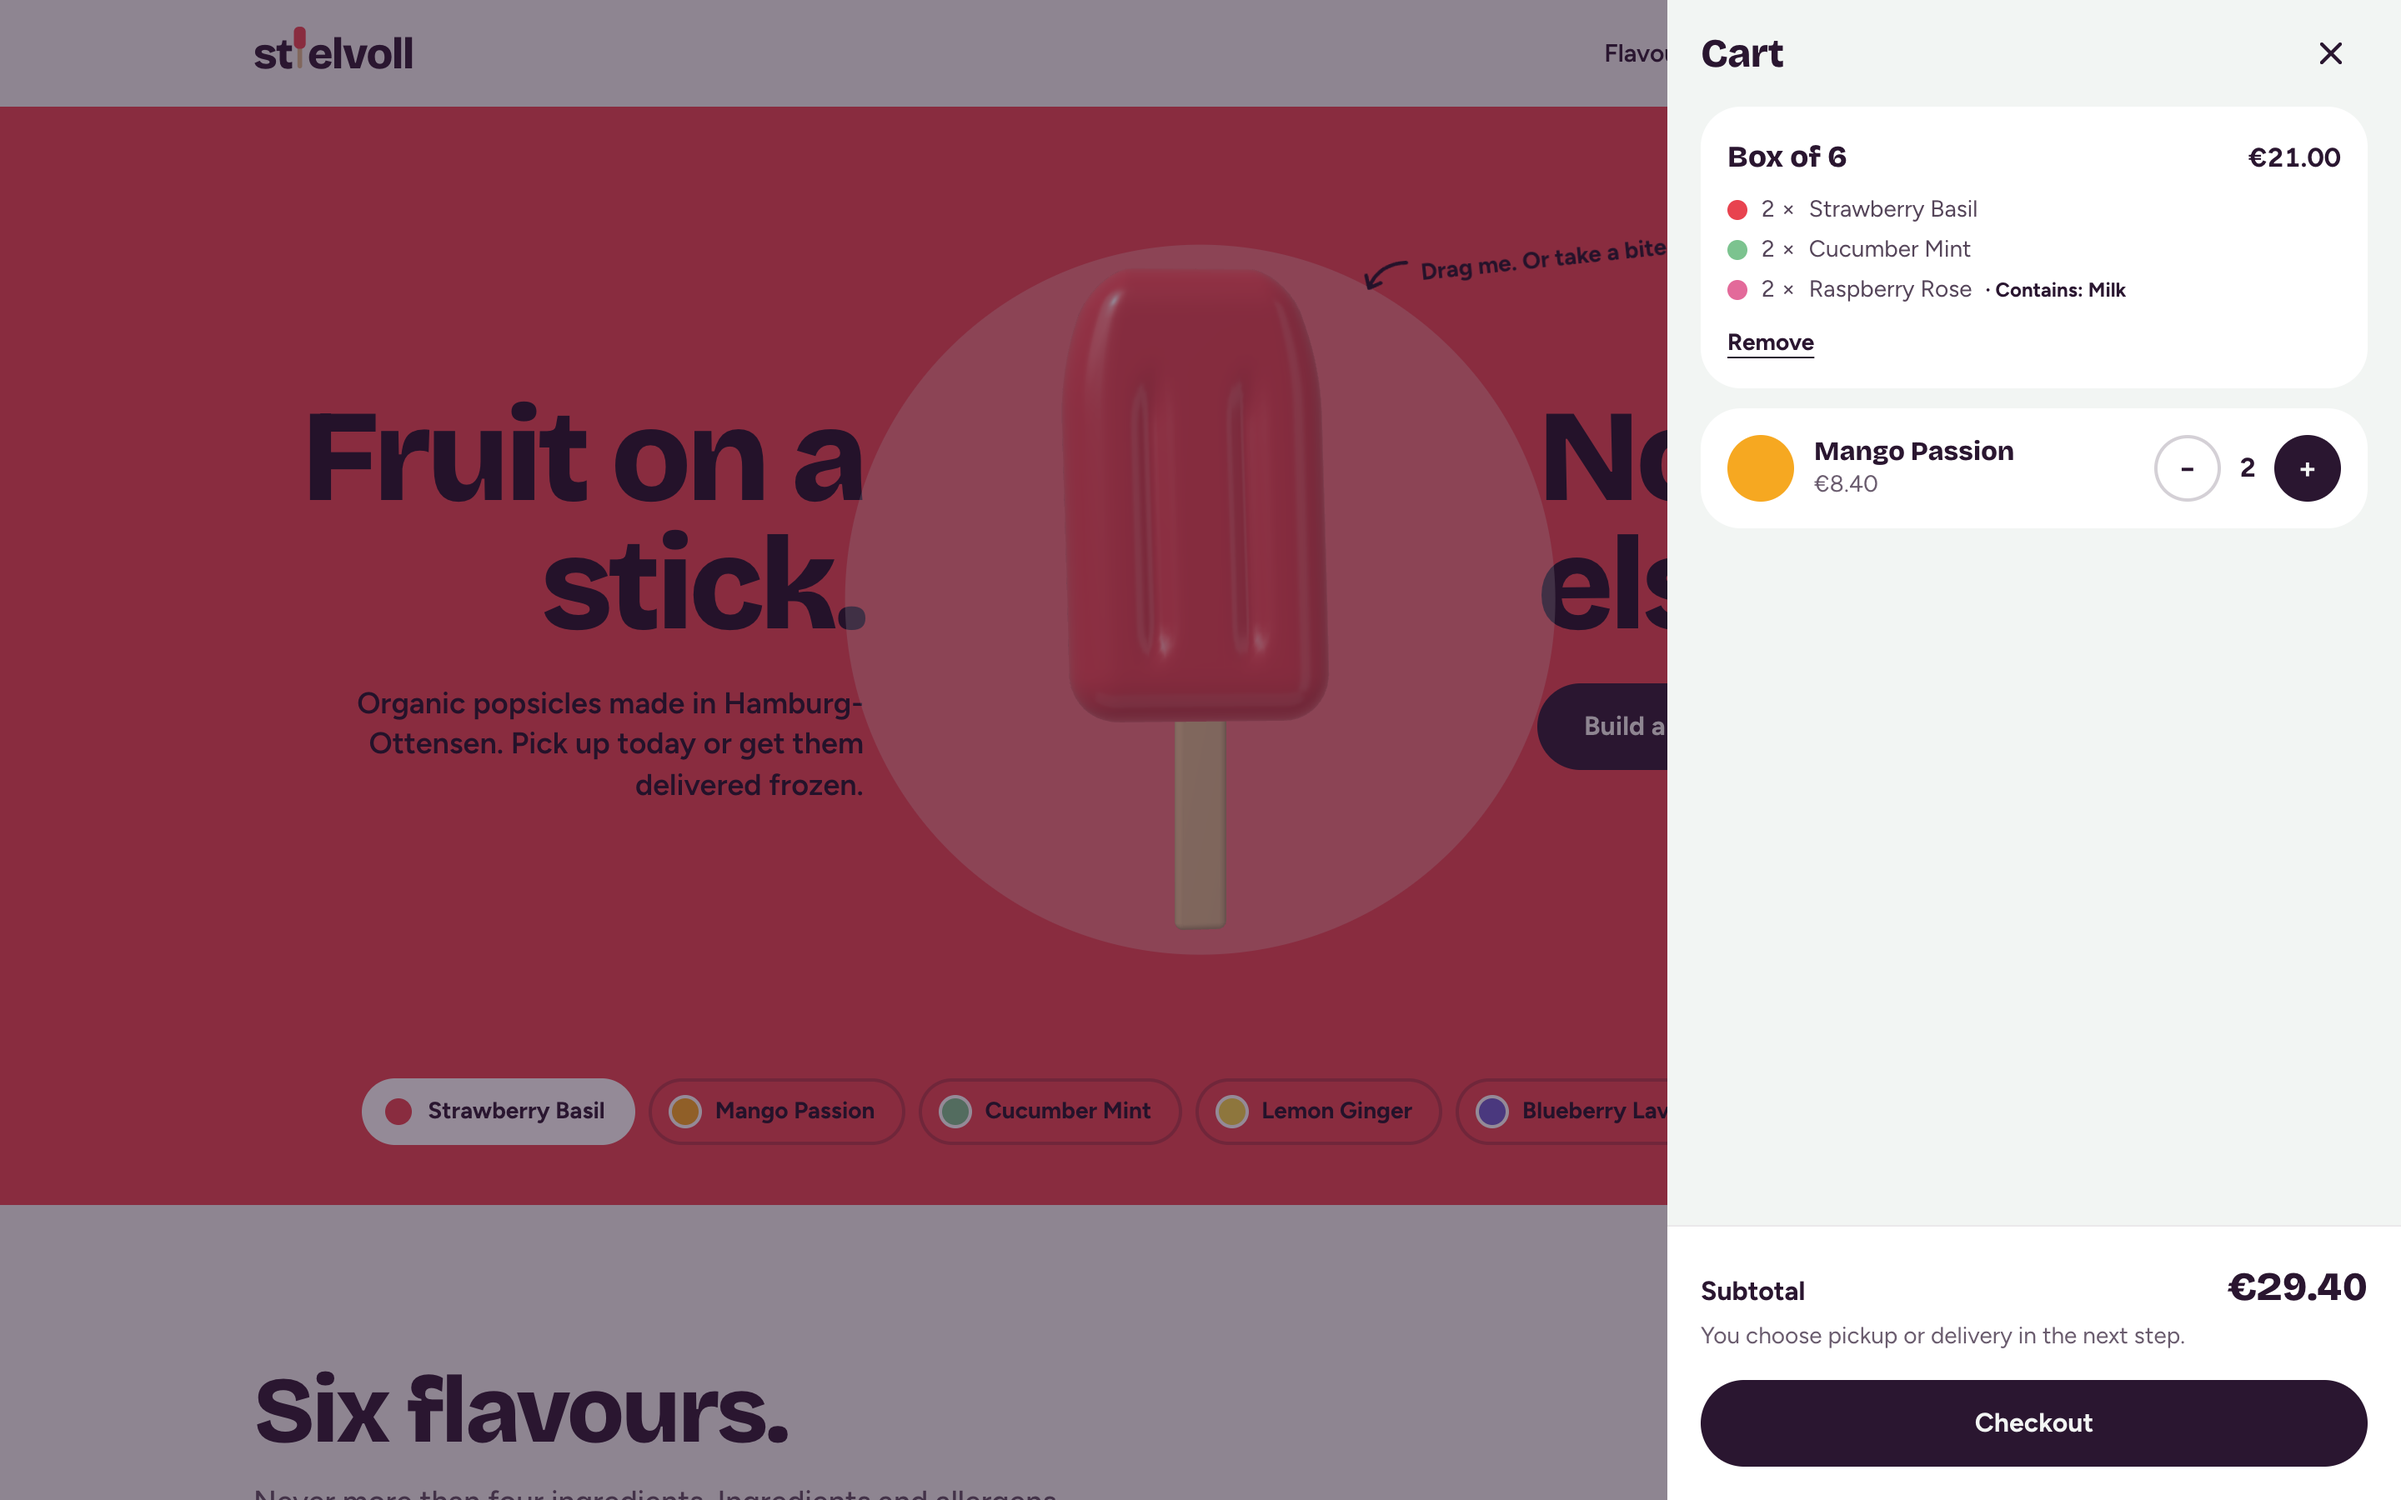
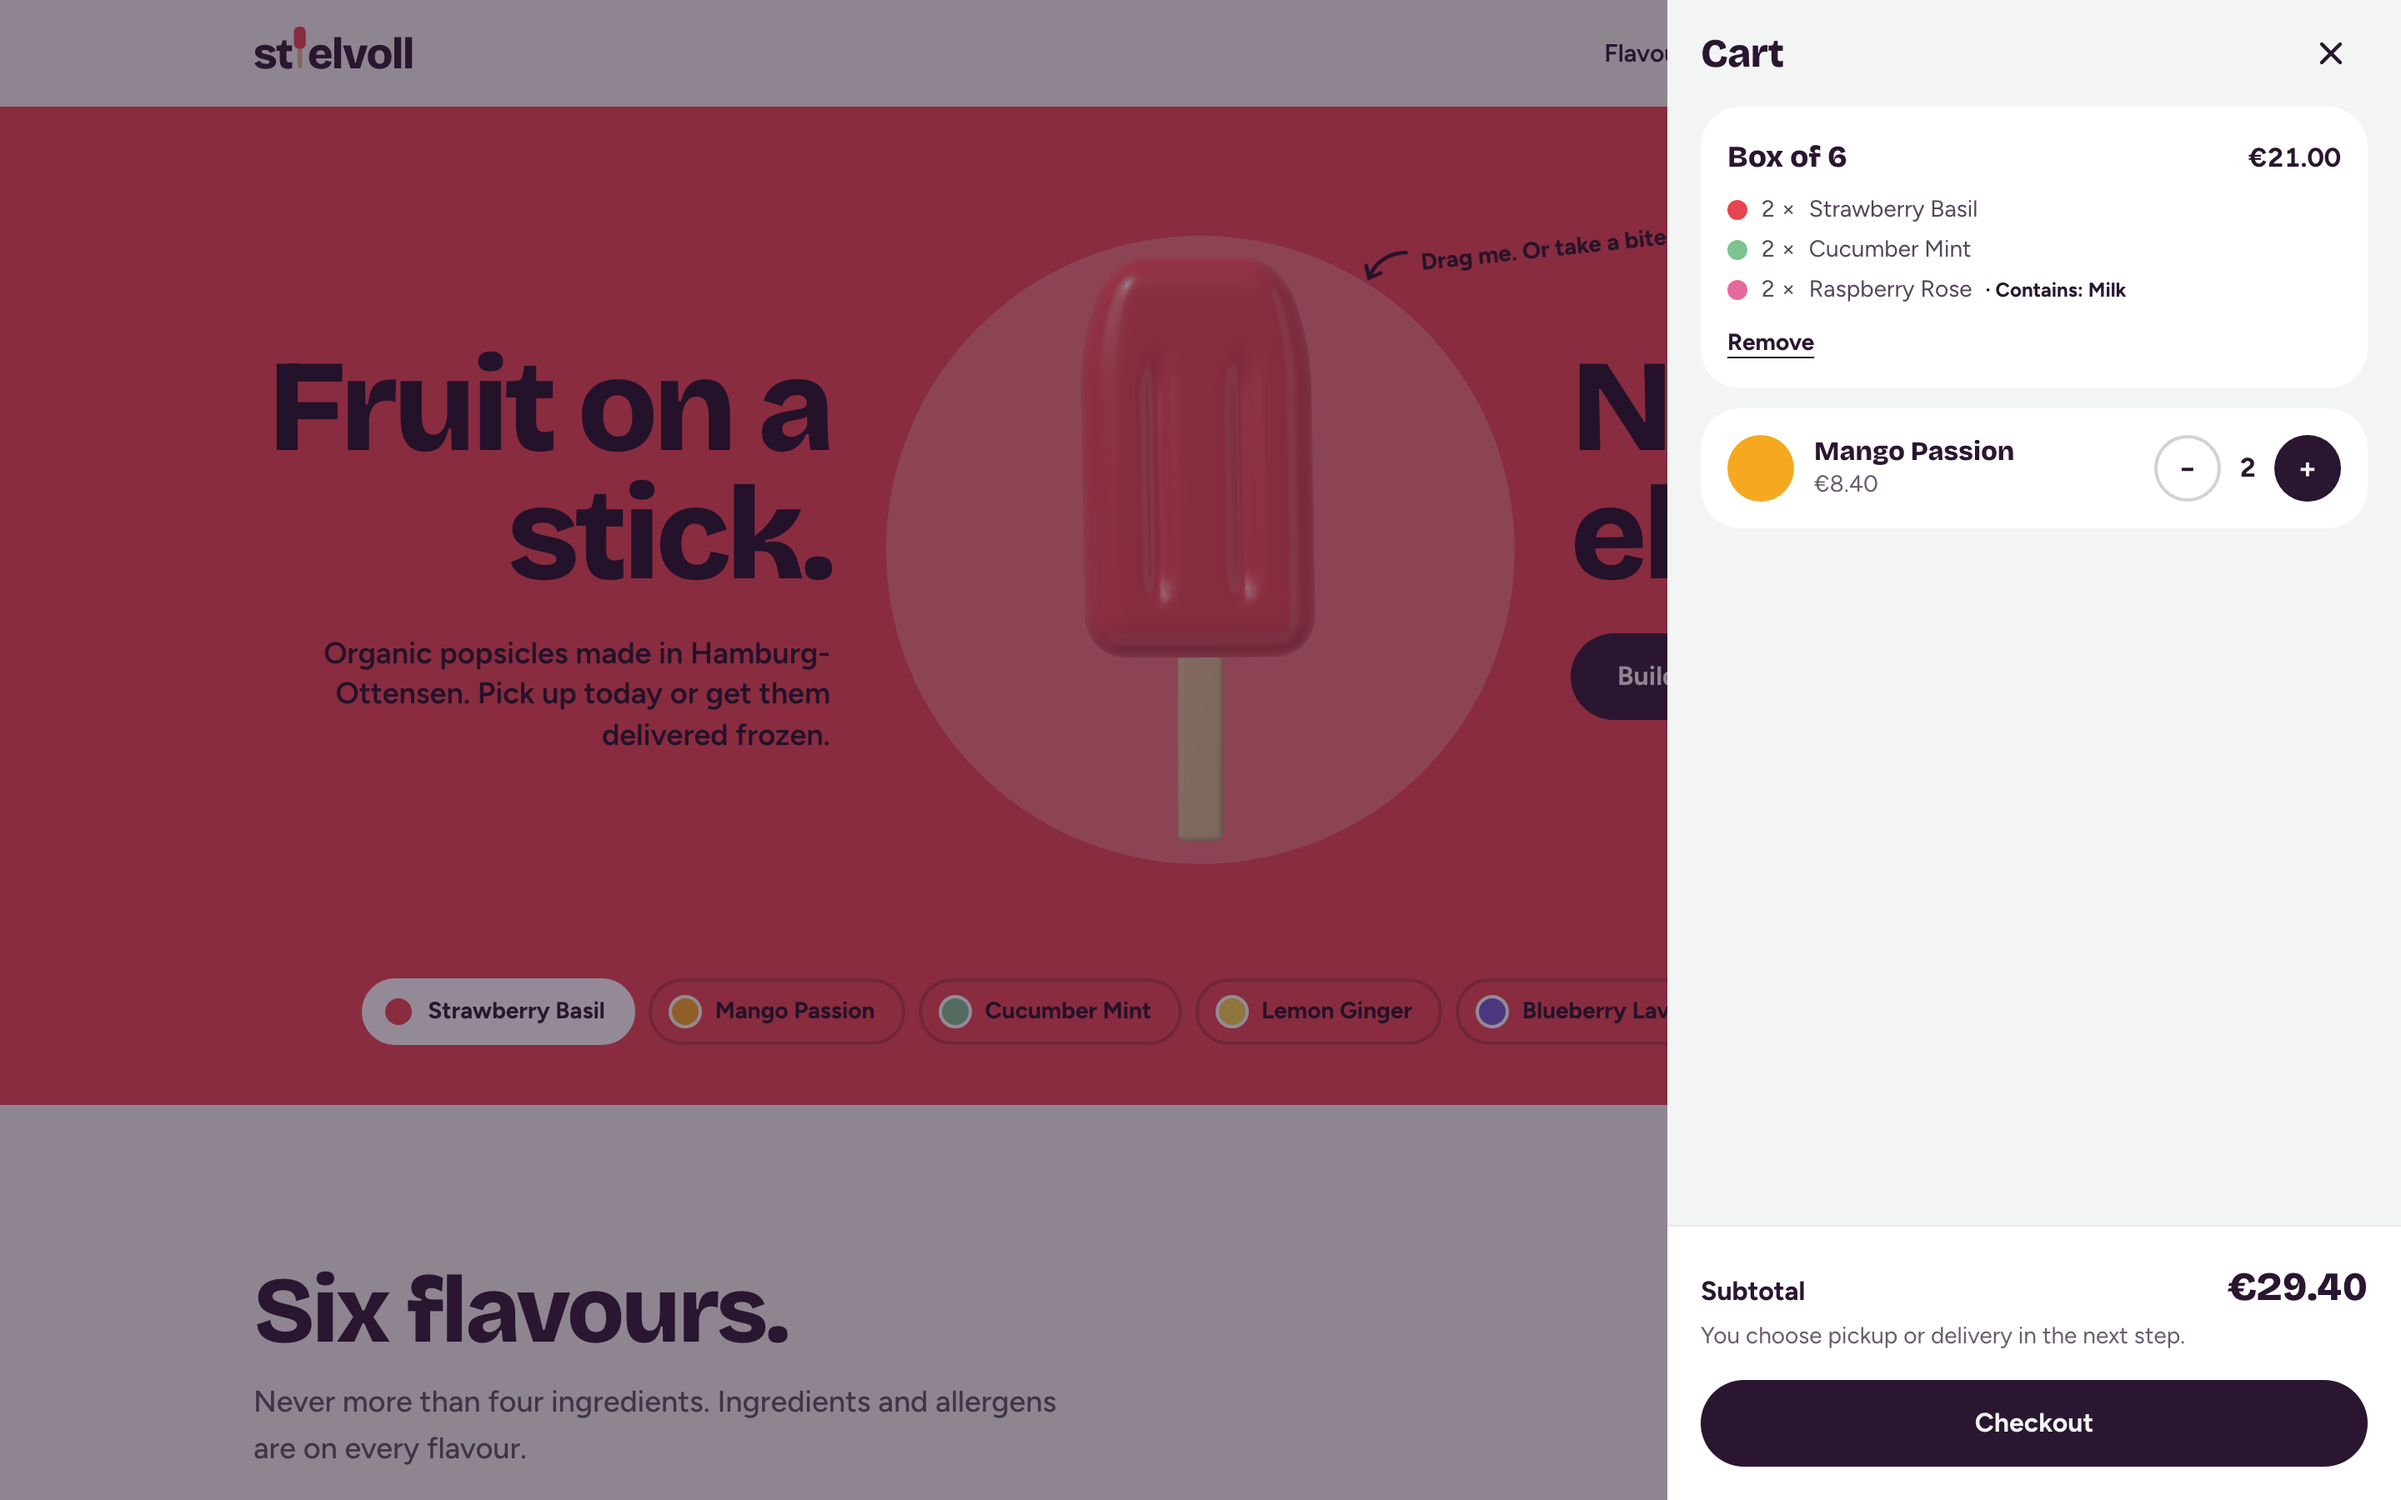
Keep the hero disc clear of the headline; add a drag-and-bite GIF
On windows 864px tall or more (1440x900, 1920x1080, iPads) the disc grew
to 426px while the middle column stopped at 340px, so it ran 11px into
"stick." and "else.". The disc now tops out at 377px in a 380px column on
desktops, and 320px in a 320px column on tablets: 30px+ clear at every size.

- README opens with a GIF of the popsicle being dragged and bitten
- Retake the hero and cart screenshots with the fix; hero still moves into the table

diff --git a/src/components/Hero.tsx b/src/components/Hero.tsx
@@ -64,7 +64,7 @@ export default function Hero() {
 
   return (
     <section id="top" className="overflow-hidden bg-flavour text-flavour-ink transition-colors duration-300">
-      <div className="mx-auto grid max-w-[1200px] justify-items-center px-5 pt-8 pb-9 text-center md:grid-cols-[1fr_minmax(260px,340px)_1fr] md:gap-x-8 md:px-8 md:py-[clamp(20px,4svh,44px)]">
+      <div className="mx-auto grid max-w-[1200px] justify-items-center px-5 pt-8 pb-9 text-center md:grid-cols-[1fr_minmax(260px,320px)_1fr] lg:grid-cols-[1fr_minmax(260px,380px)_1fr] md:gap-x-8 md:px-8 md:py-[clamp(20px,4svh,44px)]">
         {/* One headline, set either side of the popsicle on wide screens. */}
         <h1 className="contents">
           <span className={`${headline} md:col-start-1 md:row-start-1 md:self-end md:justify-self-end md:text-right`}>
@@ -77,9 +77,10 @@ export default function Hero() {
 
         <div
           ref={stage}
-          className="relative mt-5 h-[min(50svh,400px)] w-full md:col-start-2 md:row-span-2 md:row-start-1 md:mt-0 md:h-[clamp(330px,62svh,520px)]"
+          className="relative mt-5 h-[min(50svh,400px)] w-full md:col-start-2 md:row-span-2 md:row-start-1 md:mt-0 md:h-[clamp(300px,62svh,390px)] lg:h-[clamp(330px,62svh,460px)]"
         >
-          {/* a flat disc of lighter flavour colour, so the popsicle stands off the background */}
+          {/* a flat disc of lighter flavour colour, so the popsicle stands off the background.
+              At 82% of the stage height it must fit the middle column: keep the heights above in step with it. */}
           <div className="absolute top-1/2 left-1/2 aspect-square h-[82%] -translate-x-1/2 -translate-y-1/2 rounded-full bg-white/25" aria-hidden="true" />
 
           {/* The still popsicle shows first, and stays when 3D isn't available. */}

diff --git a/README.md b/README.md
@@ -9,7 +9,9 @@ wobbles like jelly before settling back; tap it and you take a bite out of it.
 > Stielvoll is a concept brand created for a portfolio project. There is no real
 > certification, and no real orders are taken.
 
-![Hero: a glossy red 3D popsicle between the headline "Fruit on a stick. Nothing else." with six flavour chips below](docs/hero.png)
+![The hero popsicle being dragged, wobbling back like jelly, then bitten four times and swapped for a fresh one](docs/hero-interaction.gif)
+
+*Drag it and it wobbles; tap it and you take a bite.*
 
 ---
 
@@ -25,17 +27,15 @@ wobbles like jelly before settling back; tap it and you take a bite out of it.
 
 ## Screenshots
 
-| Flavours | Box builder |
+| Hero | Mobile, in German |
 | --- | --- |
+| ![Hero: a glossy red 3D popsicle between the headline "Fruit on a stick. Nothing else." with six flavour chips below](docs/hero.png) | ![The German hero on a phone: "Frucht am Stiel. Sonst nichts."](docs/mobile-hero-de.png) |
+| **Flavours** | **Box builder** |
 | ![Flavour cards with price, ingredients, allergen and vegan tags](docs/flavours.png) | ![Box builder: pick six or twelve popsicles in any mix](docs/box.png) |
 | **Cart** | **Checkout** |
 | ![Cart drawer with a box of six and two singles](docs/cart.png) | ![Checkout with delivery to Ottensen, a chosen time slot and the order summary](docs/checkout.png) |
-| **Confirmation** | **Mobile, in German** |
-| ![Confirmation page: "Thank you, Lena!", order ST-1042, delivery slot and a keep-frozen tip](docs/confirmation.png) | ![The German hero on a phone: "Frucht am Stiel. Sonst nichts."](docs/mobile-hero-de.png) |
-
-**Orders page** (`/admin`)
-
-![Orders page with one paid delivery order and status buttons](docs/admin.png)
+| **Confirmation** | **Orders page** (`/admin`) |
+| ![Confirmation page: "Thank you, Lena!", order ST-1042, delivery slot and a keep-frozen tip](docs/confirmation.png) | ![Orders page with one paid delivery order and status buttons](docs/admin.png) |
 
 ## Features
 
